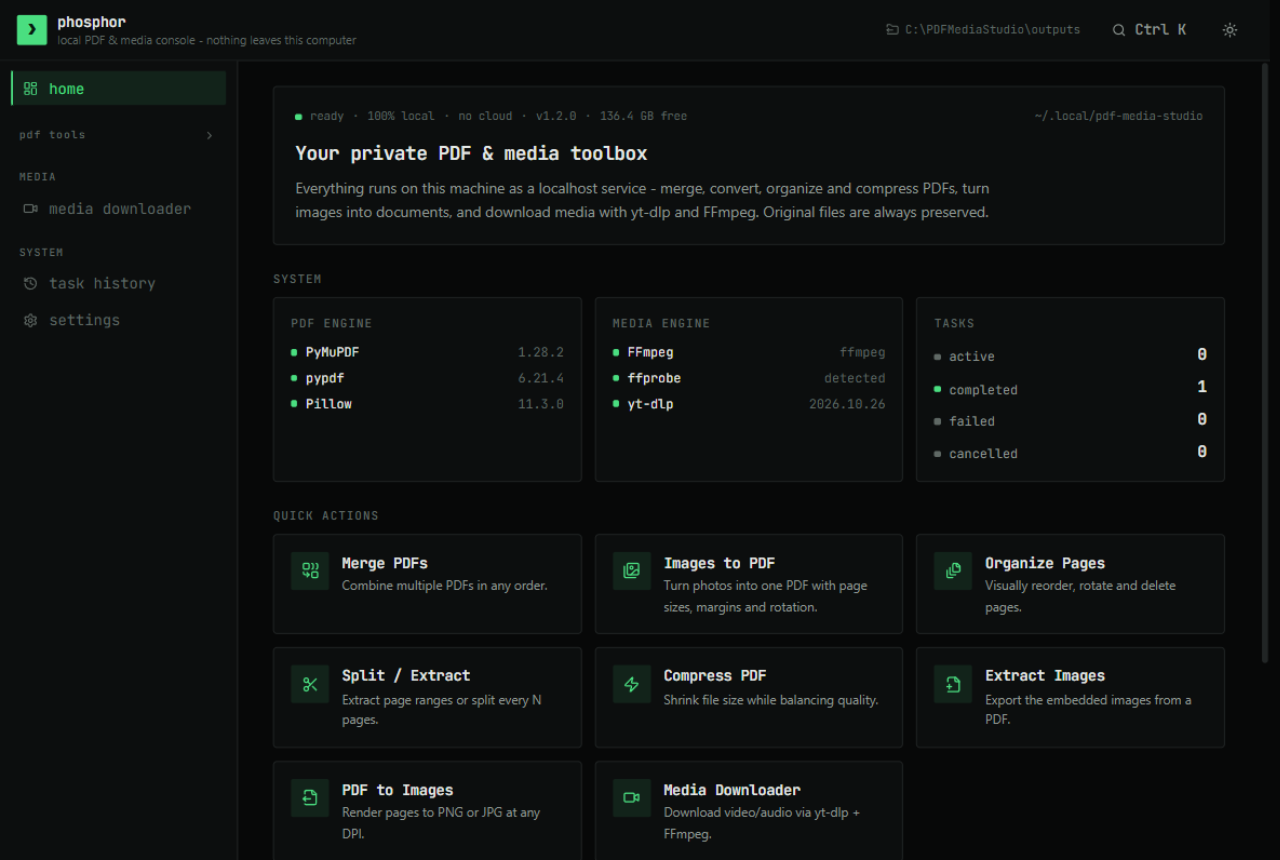
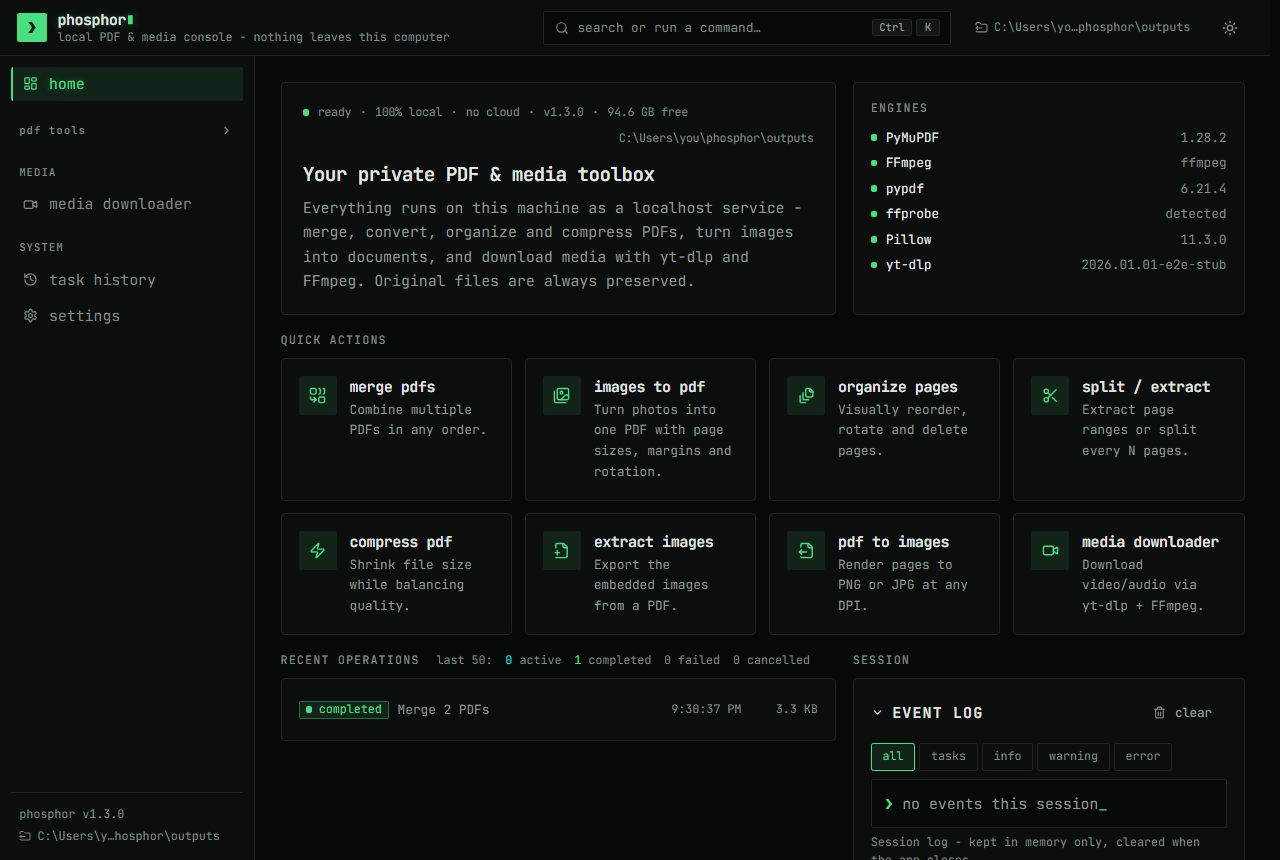
docs: regenerate README screenshots from the 1.3.0 harness
Also correct the e2e count (35) and drop the note that the images were out of date.

diff --git a/README.md b/README.md
@@ -99,7 +99,7 @@ be edited live in **Settings** (host/port need a restart):
 ```bat
 .venv\Scripts\python.exe -m pytest      :: backend (~106 tests)
 cd frontend && npm run build            :: type-check + production build
-cd frontend && npm run e2e              :: Playwright, real browser (32 tests, offline)
+cd frontend && npm run e2e              :: Playwright, real browser (35 tests, offline)
 ```
 
 E2E details: [frontend/e2e/README.md](frontend/e2e/README.md).
@@ -108,9 +108,6 @@ E2E details: [frontend/e2e/README.md](frontend/e2e/README.md).
 cd frontend && npm run shots            :: screenshot harness -> frontend/e2e/.shots/ (not part of e2e)
 cd frontend && npm run format           :: Prettier (format:check to verify)
 ```
-
-> The images in `docs/screenshots/` predate the 1.3.0 visual overhaul; re-run
-> `npm run shots` and replace them to refresh.
 
 ## Known limitations
 
